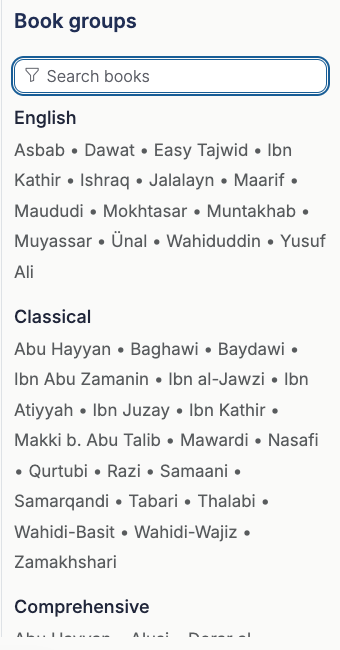
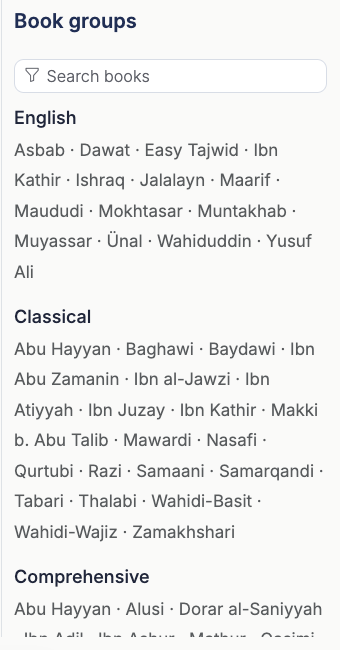
Use a smaller middle dot between book rail links

diff --git a/docs/design-system/library.html b/docs/design-system/library.html
@@ -41,7 +41,7 @@
   <section id="catalog"><h2>Book discovery</h2><p>The <code>/books</code> catalog uses the Settings hierarchy. Use the shared interface font for collection and group headings, catalog navigation and the right-hand index. Arabic and English book titles share an item size. Kitab retains its own line height for Arabic marks. A narrow Midnight underline identifies the current desktop collection. Book links use the Ivory accent.</p><div class="grid">
       <article><h3>Collection navigation &amp; local filters</h3><img src="catalog/collections.png" alt="Six collection names with a Midnight underline under Hadith"><img src="catalog/filters.png" alt="Search books above the collection index"><p>The header presents six text links on desktop and a native collection picker on phones. Show Search books directly above the rail index. Below 992 px, show the same field above the cards. Use card pills to filter by group or language. Returning from a book restores the search and filters for that history entry.</p></article>
       <article><h3>Bilingual catalog card</h3><img src="catalog/book.png" alt="Book title and author in English and Arabic with classification and details controls"><p>Pair the type label with its decorative navigation icon. Hadith and Mushaf use the open book, Tafsir the half book, translations the translation symbol, History &amp; Sirah the Madani artwork, and Sharḥ the annotated journal. Show type, language and classifications as individual rounded pills that wrap between labels. Bottom-align the pill block just above the date row. Reserve the date slot on undated cards in mixed grids. Set all pill labels in Inter Light (300). Tint the type pill blue and use a neutral fill for language and groups. Language pills and their filters use lowercase ar, en and en-ar. A virtual collection qualifies as bilingual when its linked reader entries include English text. Use compact 0.75 rem pill links. A group or language pill filters the collection, and the type pill returns to its full collection. Keep the canonical title link separate from the details button. Use card width to position paired titles. Below 24 rem of usable width, Arabic sits on a right-aligned row beneath English, aligned with the Arabic author. Wider cards use separate columns on one row. Give Arabic its own direction and typeface, and keep source classifications and dates attached to their book. Escape closes details and returns focus to its opener.</p></article>
-      <article><h3>Collection index</h3><img src="catalog/rail.png" alt="Book groups heading above the shared book search and group links"><p>Use one static heading that names what the rail contains. “Book groups” and “Settings categories” share the same heading component, ink, and type. Place collection-specific group names one heading level below it. Start the page and rail titles on the same row, one rem below the measured masthead. Give both titles a minimum 2.25 rem row, with the smaller rail title centered vertically. Leave one rem after the title before the next section or rail search. Keep a page subtitle with its title. Put regular-weight book links beneath their group labels. On phones the page title precedes local search.</p></article>
+      <article><h3>Collection index</h3><img src="catalog/rail.png" alt="Book groups heading above the shared book search and group links"><p>Use one static heading that names what the rail contains. “Book groups” and “Settings categories” share the same heading component, ink, and type. Place collection-specific group names one heading level below it. Start the page and rail titles on the same row, one rem below the measured masthead. Give both titles a minimum 2.25 rem row, with the smaller rail title centered vertically. Leave one rem after the title before the next section or rail search. Keep a page subtitle with its title. Separate regular-weight book links with a small middle dot (·) beneath each group label. On phones the page title precedes local search.</p></article>
     </div></section>
   <section id="choices"><h2>Choices &amp; preferences</h2>
     <div class="grid">

diff --git a/public/static/css/style.css b/public/static/css/style.css
@@ -13816,7 +13816,7 @@ main.book-catalog-page:not(.ux-system) .tafsir-book-title-line :lang(ar) {
 	display: inline;
 }
 .tafsir-rail-group li + li::before {
-	content: " • ";
+	content: " · ";
 	color: var(--bs-secondary-color);
 }
 .tafsir-rail-group a {
